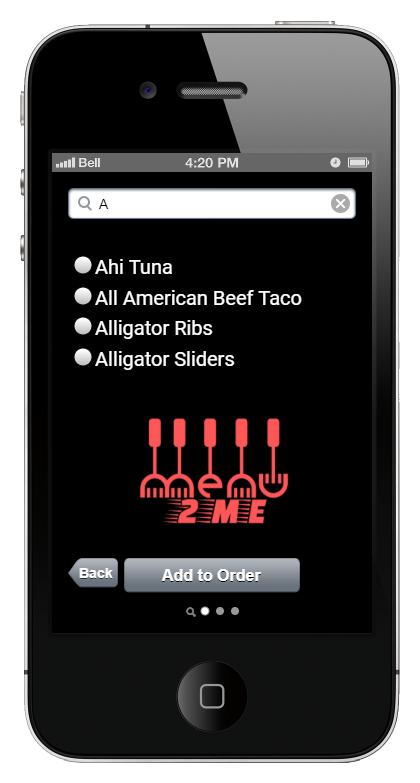
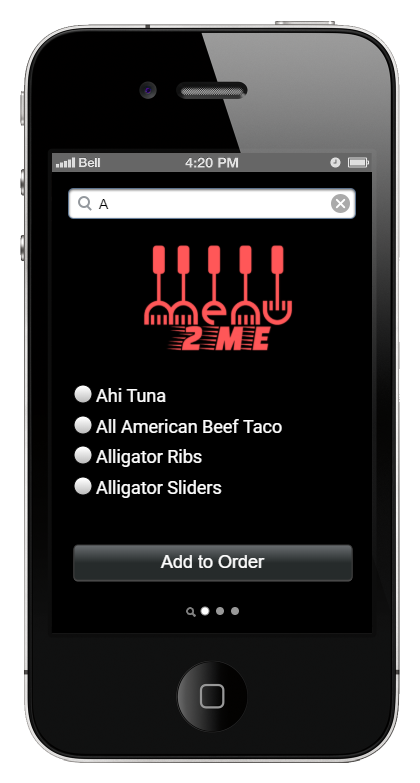
Add files via upload
NewFilesAdded

Changed region(s): [[0.1548, 0.3065, 0.8667, 0.7663]]

diff --git a/index.html b/index.html
@@ -1,2 +1,2 @@
 <html xmlns="http://www.w3.org/1999/xhtml" xmlns:p="http://www.evolus.vn/Namespace/Pencil" xmlns:html="http://www.w3.org/1999/xhtml"><head><meta http-equiv="Content-Type" content="text/html; charset=UTF-8" />
-<title>Apple2</title><link rel="stylesheet" href="Resources/style.css" /><script type="application/javascript" src="Resources/script.js"></script></head><body><h1 id="documentTitle">Apple2</h1><p id="documentMetadata">Exported at: Sat Apr 04 2020 11:40:13 GMT+1000 (Australian Eastern Standard Time)</p><div class="Page" id="homescreen_page"><h2>HomeScreen</h2><div class="ImageContainer"><img src="pages\homescreen.png" width="420" height="783" usemap="#map_homescreen" /></div><map name="map_homescreen"><area shape="rect" coords="129,534,294,570" href="#menuscreena_page" title="Go to page 'MenuScreenA'" /></map></div><div class="Page" id="menuscreena_page"><h2>MenuScreenA</h2><div class="ImageContainer"><img src="pages\menuscreena.png" width="420" height="783" usemap="#map_menuscreena" /></div><map name="map_menuscreena"><area shape="rect" coords="68,558,118,588" href="#homescreen_page" title="Go to page 'HomeScreen'" /></map></div><div class="Page" id="menuscreenb_page"><h2>MenuScreenB</h2><div class="ImageContainer"><img src="pages\menuscreenb.png" width="420" height="783" usemap="#map_menuscreenb" /></div><map name="map_menuscreenb"><area shape="rect" coords="68,558,118,588" href="#homescreen_page" title="Go to page 'HomeScreen'" /></map></div><div class="Page" id="orderscreen_page"><h2>OrderScreen</h2><div class="ImageContainer"><img src="pages\orderscreen.png" width="420" height="783" usemap="#map_orderscreen" /></div><map name="map_orderscreen"><area shape="rect" coords="68,558,118,588" href="#homescreen_page" title="Go to page 'HomeScreen'" /></map></div><div class="Page" id="payscreen_page"><h2>PayScreen</h2><div class="ImageContainer"><img src="pages\payscreen.png" width="420" height="783" usemap="#map_payscreen" /></div><map name="map_payscreen"><area shape="rect" coords="68,532,118,562" href="#homescreen_page" title="Go to page 'HomeScreen'" /></map></div></body></html>
+<title>m2m</title><link rel="stylesheet" href="Resources/style.css" /><script type="application/javascript" src="Resources/script.js"></script></head><body><h1 id="documentTitle">m2m</h1><p id="documentMetadata">Exported at: Tue Apr 14 2020 17:42:35 GMT+1000 (Australian Eastern Standard Time)</p><div class="Page" id="splashscreen_page"><h2>SplashScreen</h2><div class="ImageContainer"><img src="pages\splashscreen.png" width="420" height="783" usemap="#map_splashscreen" /></div><p class="Notes"></p><div></div><p></p><map name="map_splashscreen"></map></div><div class="Page" id="loginscreen_page"><h2>LoginScreen</h2><div class="ImageContainer"><img src="pages\loginscreen.png" width="420" height="783" usemap="#map_loginscreen" /></div><map name="map_loginscreen"><area shape="rect" coords="55,456,357,494" href="#menuscreena_page" title="Go to page 'MenuScreenA'" /></map></div><div class="Page" id="menuscreena_page"><h2>MenuScreenA</h2><div class="ImageContainer"><img src="pages\menuscreena.png" width="420" height="783" usemap="#map_menuscreena" /></div><map name="map_menuscreena"><area shape="rect" coords="74,545,352,581" href="#orderscreen__page" title="Go to page 'OrderScreen '" /></map></div><div class="Page" id="menuscreenb_page"><h2>MenuScreenB</h2><div class="ImageContainer"><img src="pages\menuscreenb.png" width="420" height="783" usemap="#map_menuscreenb" /></div><map name="map_menuscreenb"><area shape="rect" coords="73,554,351,590" href="#orderscreen__page" title="Go to page 'OrderScreen '" /></map></div><div class="Page" id="orderscreen__page"><h2>OrderScreen </h2><div class="ImageContainer"><img src="pages\orderscreen_.png" width="420" height="783" usemap="#map_orderscreen_" /></div><map name="map_orderscreen_"><area shape="rect" coords="73,556,351,592" href="#payscreen_page" title="Go to page 'PayScreen'" /></map></div><div class="Page" id="payscreen_page"><h2>PayScreen</h2><div class="ImageContainer"><img src="pages\payscreen.png" width="420" height="783" usemap="#map_payscreen" /></div><map name="map_payscreen"></map></div><div class="Page" id="ordereditemsscreen_page"><h2>OrderedItemsScreen</h2><div class="ImageContainer"><img src="pages\ordereditemsscreen.png" width="420" height="783" usemap="#map_ordereditemsscreen" /></div><map name="map_ordereditemsscreen"><area shape="rect" coords="73,556,351,592" href="#splashscreen_page" title="Go to page 'SplashScreen'" /></map></div><div class="Page" id="menumanagementscreen_page"><h2>MenuManagementScreen</h2><div class="ImageContainer"><img src="pages\menumanagementscreen.png" width="420" height="783" usemap="#map_menumanagementscreen" /></div><map name="map_menumanagementscreen"><area shape="rect" coords="99,398,342,426" href="#recipescreen_page" title="Go to page 'RecipeScreen'" /><area shape="rect" coords="100,447,341,475" href="#recipescreen_page" title="Go to page 'RecipeScreen'" /><area shape="rect" coords="100,480,341,508" href="#recipescreen_page" title="Go to page 'RecipeScreen'" /></map></div><div class="Page" id="recipescreen_page"><h2>RecipeScreen</h2><div class="ImageContainer"><img src="pages\recipescreen.png" width="420" height="783" usemap="#map_recipescreen" /></div><map name="map_recipescreen"></map></div></body></html>
